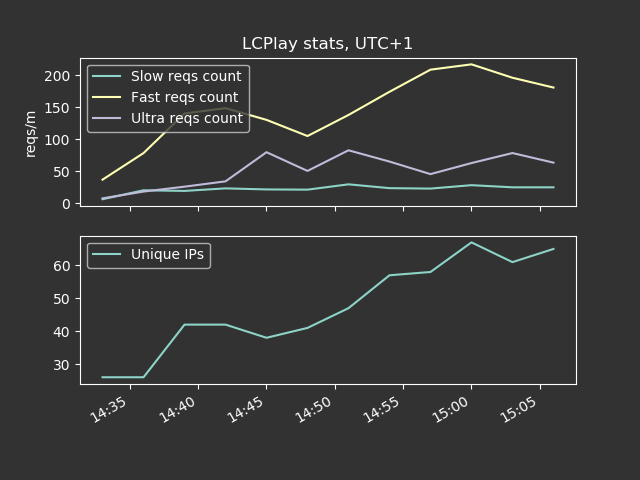
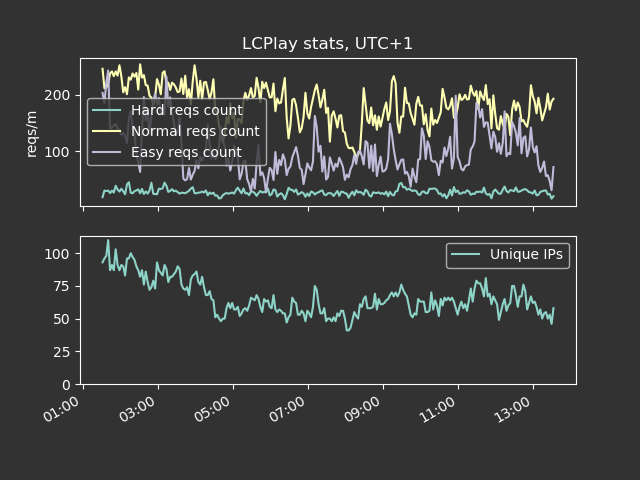
Update

diff --git a/Data/index.html b/Data/index.html
@@ -42,6 +42,9 @@
 			box-shadow: inset 0 0 1px 1px #e3e3e3;
 			color: #000; 
 		}
+		a:visited {
+			color: #A74AC7;
+		}
 	</style>
 
 </head>
@@ -57,7 +60,7 @@
     </script>
     <h1 style="text-align:center; color: white"> Play against LCZero ID 82 </h1>
     <div style="text-align: center;">
-	<i style="color: white"> 5th April 1 PM UTC : New UI out !<br /></i>
+	<i style="color: white"> 5th April 7 PM UTC : Lots of people here, keep in mind that this is all running on 1 computer, it is normal if leela takes a long time to answer.<br /></i>
     <hr/>
         <p style="color: white"><b><span id="status" ></span></b></p>
         <p style="color: white"><b><span id="winrate" ><br /></span></b></p>
@@ -70,11 +73,11 @@
 				<input type="button" id="move1Btn" class="minimal" value="Leela: Enabled" /><br />
 				<input type="button" id="move2Btn" class="minimal" value="Force Leela Move" /><br />
 				<p style="margin-top: 10px; margin-bottom: 1px;"><b>Choose a mode:</b></p>
-				<input type="button" id="ultrafastBtn" class="minimal" value="Ultra Fast Mode" /><br />
-				<input type="button" id="fastBtn" class="minimal" value="Fast Mode" /><br />
-				<input type="button" id="slowBtn" class="minimal" value="Slow Mode" /><br />
+				<input type="button" id="ultrafastBtn" class="minimal" value="Easy" /><br />
+				<input type="button" id="fastBtn" class="minimal" value="Normal" /><br />
+				<input type="button" id="slowBtn" class="minimal" value="Hard" /><br />
 				<span style="text-align: left;position: relative; left:25px;">
-				<p style="margin-top: 10px; margin-bottom: 1px;"><b>Current: <span id="curMode" style="color: white">Fast</span></b></p>
+				<p style="margin-top: 10px; margin-bottom: 1px;"><b>Current: <span id="curMode" style="color: white">Normal</span></b></p>
 				<p style="margin-top: 10px; margin-bottom: 1px;"><b>Playouts: <span id="playouts" style="color: white">200</span></b></p>
 				<p style="margin-top: 10px; margin-bottom: 1px;"><b>Wait time: <span id="timeLeft" style="color: white">0s</span></b></p>
 				</span>
@@ -82,14 +85,14 @@
 		</div>
 		<div>
         <p style="color: white">
-            <b> If you want to help make Leela Chess Zero stronger, please think about contributing your GPU at <a href="http://lczero.org/" style=":visited {color: #8b00d0;}">http://lczero.org/</a> !</b>
+            <b> If you want to help make Leela Chess Zero stronger, please think about contributing your GPU or CPU at <a href="http://lczero.org/" style=":visited {color: #8b00d0;}">http://lczero.org/</a> !</b>
 			<br />
         </p>
         <p style="color: white">
             <b> What are modes ? </b> Modes are leela playing at different playouts, which can be compared to nodes in traditional chess engines. <br />
-			In fast mode, Leela is playing very fast and can miss tactics and mates, but it is the simplest way to see how she behaves. <br />
-			In slow mode, Leela should play much better, but it takes more calculations so you will have to wait 5 seconds after she answers not to overload the server. <br />
-			In ultra fast mode, Leela is not doing any calculations and is playing purely by insight, just taking the board and evaluating what looks interesting. <br />
+			In normal mode, Leela is playing very fast and can miss tactics and mates, but it is the simplest way to see how she behaves. <br />
+			In hard mode, Leela should play much better, but it takes more calculations so you will have to wait 5 seconds after she answers not to overload the server. <br />
+			In easy mode, Leela is not doing any calculations and is playing purely by insight, just taking the board and evaluating what looks interesting. <br />
         </p>
 		</div>
         <div style="width: 400px; margin-left: auto; margin-right: auto;">
@@ -321,19 +324,19 @@
                 });
 
                 $('#slowBtn').on('click', function() {
-                    $('#curMode').html("Slow");
+                    $('#curMode').html("Hard");
                     playouts = 2000;
 					$('#playouts').html(playouts);
                 });
 				 
 				$('#fastBtn').on('click', function() {
-                    $('#curMode').html("Fast");
+                    $('#curMode').html("Normal");
                     playouts = 200;
 					$('#playouts').html(playouts);
                 });
 				
 				$('#ultrafastBtn').on('click', function() {
-                    $('#curMode').html("Ultra Fast");
+                    $('#curMode').html("Easy");
                     playouts = 1;
 					$('#playouts').html(playouts);
                 });

diff --git a/Data/stats.py b/Data/stats.py
@@ -29,7 +29,7 @@ def main():
 			splitted = [x for x in l.split(" ") if x != ""]
 			t = parseTime(splitted)
 			minute = delta_t(t).seconds//bin_size
-			if(minute > (8*60*60)//bin_size):
+			if(minute > (12*60*60)//bin_size):
 				break
 			if minute not in minutes:
 				initMinute(minute)
@@ -65,13 +65,14 @@ def main():
 	x_axis = [datetime.datetime.now() - datetime.timedelta(minutes=(i*bin_size)//60) for i in minuteSorted]
 	plt.subplot(211)
 	plt.title("LCPlay stats, UTC+1")
-	plt.plot(x_axis, slow, label="Slow reqs count")
-	plt.plot(x_axis, fast, label="Fast reqs count")
-	plt.plot(x_axis, ultra, label="Ultra reqs count")
+	plt.plot(x_axis, slow, label="Hard reqs count")
+	plt.plot(x_axis, fast, label="Normal reqs count")
+	plt.plot(x_axis, ultra, label="Easy reqs count")
 	plt.ylabel("reqs/m")
 	plt.legend()
 	ax = plt.subplot(212)
 	plt.plot(x_axis, ips_c, label="Unique IPs")
+	plt.ylim(ymin=0)
 	ax.xaxis_date()
 	ax.xaxis.set_major_formatter(mdates.DateFormatter("%H:%M"))
 	ax.xaxis.set_minor_formatter(mdates.DateFormatter("%H:%M"))
